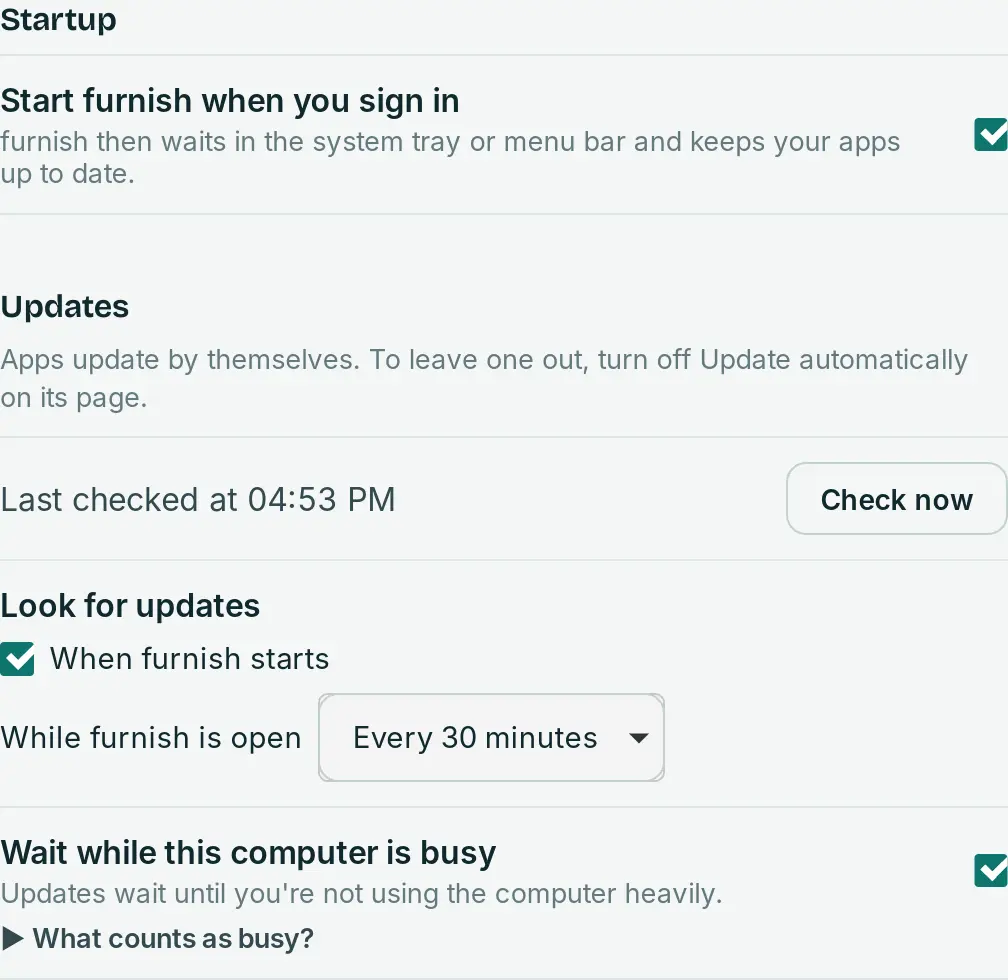
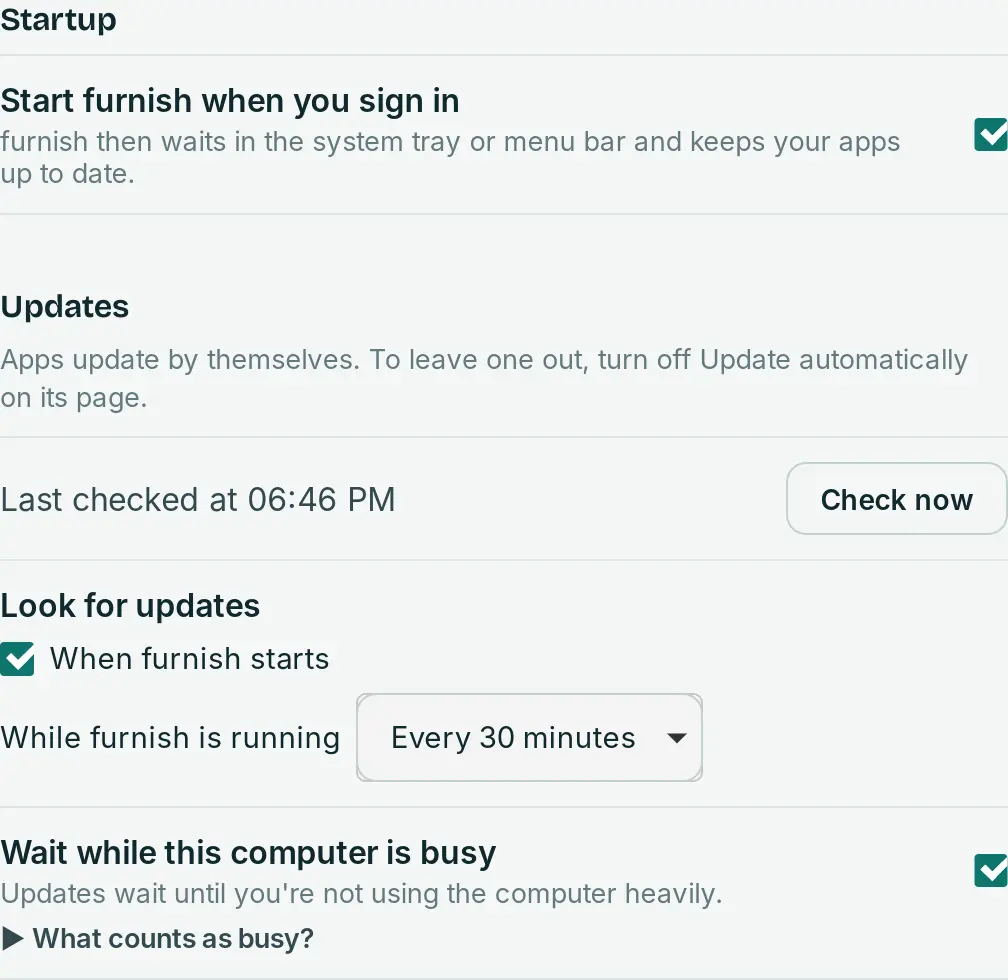
Settings follow-up: "while furnish is running", Never means no network, a real data folder in screenshots
- The interval row reads "While furnish is running" (it also checks from the tray).
- With checking set to Never and When furnish starts off, furnish doesn't ask the
  collections' servers on its own; the marks then change with Check now or Update.
  The rule is in schedule.ts with a unit test.
- Screenshots run the app with HOME=/home/alex, so About shows the data folder
  furnish uses normally; settings and reports-setting retaken.

Changed region(s): [[0.2153, 0.7041, 0.7073, 0.7959], [0.246, 0.4898, 0.3383, 0.5204], [0.6766, 0.7653, 0.7073, 0.7959]]

diff --git a/gui/src/lib/state.svelte.ts b/gui/src/lib/state.svelte.ts
@@ -3,6 +3,7 @@ import * as api from './api';
 import type { AppInfo, CollectionInfo, KitInfo, LogLine, Outcome, Settings, Status, Step } from './api';
 import { applyBranding, type Branding } from './brand';
 import { setLanguage, t, formatDate, lang } from './i18n.svelte';
+import { serverLooks } from './schedule';
 import { contentLanguage, lookup, matches, searchTexts, valueKey } from './content';
 
 export type View =
@@ -348,16 +349,16 @@ export function setAutoUpdate(key: string, on: boolean) {
 
 let timer: ReturnType<typeof setInterval> | undefined;
 let lookTimer: ReturnType<typeof setInterval> | undefined;
-/** Between update checks further apart than this, or with none: only ask the collections' servers
- *  whether they have something new (cheap, nothing is downloaded or applied). */
-const LOOK_MINUTES = 30;
+/** When to only ask the collections' servers whether they have something new (see schedule.ts). */
+const looks = () => serverLooks(store.settings?.updateIntervalMinutes ?? 0, store.settings?.updateOnLaunch ?? false);
 /** (Re)start the update interval from the current settings. */
 function schedule() {
   clearInterval(timer);
   clearInterval(lookTimer);
   const minutes = store.settings?.updateIntervalMinutes ?? 0;
   if (minutes > 0) timer = setInterval(checkForUpdates, minutes * 60_000);
-  if (minutes === 0 || minutes > LOOK_MINUTES) lookTimer = setInterval(lookForCollectionUpdates, LOOK_MINUTES * 60_000);
+  const every = looks().everyMinutes;
+  if (every) lookTimer = setInterval(lookForCollectionUpdates, every * 60_000);
 }
 
 /** Which collections have an update that isn't applied yet: asks their servers, then reloads the
@@ -411,7 +412,7 @@ export async function start() {
   if (store.settings?.updateOnLaunch) await checkForUpdates();
   else {
     updateApps();
-    lookForCollectionUpdates();
+    if (looks().atStart) lookForCollectionUpdates();
   }
 }
 

diff --git a/gui/src/lib/schedule.test.ts b/gui/src/lib/schedule.test.ts
@@ -1,0 +1,17 @@
+// node --test --experimental-strip-types src/lib/schedule.test.ts
+import { test } from 'node:test';
+import assert from 'node:assert/strict';
+import { serverLooks } from './schedule.ts';
+
+test('furnish looks for collection updates between checks, never with checking set to Never and off at start', () => {
+  // Regular checks every 30 minutes or more often apply updates anyway; at start only without updating at start.
+  assert.deepEqual(serverLooks(30, true), { atStart: false, everyMinutes: null });
+  assert.deepEqual(serverLooks(15, false), { atStart: true, everyMinutes: null });
+  // Checks further apart: look in between.
+  assert.deepEqual(serverLooks(240, true), { atStart: false, everyMinutes: 30 });
+  assert.deepEqual(serverLooks(1440, false), { atStart: true, everyMinutes: 30 });
+  // Never, but updating at start: look in between.
+  assert.deepEqual(serverLooks(0, true), { atStart: false, everyMinutes: 30 });
+  // Never and nothing at start: no network traffic at all.
+  assert.deepEqual(serverLooks(0, false), { atStart: false, everyMinutes: null });
+});

diff --git a/gui/src/lib/schedule.ts b/gui/src/lib/schedule.ts
@@ -1,0 +1,19 @@
+// When furnish asks the collections' servers whether they have something new, without applying
+// it (the "update available" marks; see check_collection_servers). Cheap: nothing is downloaded.
+
+/** Between update checks further apart than this: look this often. */
+export const LOOK_MINUTES = 30;
+
+/**
+ * At start (when updating at start is off) and every LOOK_MINUTES between update checks that are
+ * further apart. Checking set to Never with updating at start off means no network traffic at all:
+ * then the marks only change with Check now or Update.
+ */
+export function serverLooks(intervalMinutes: number, updateOnLaunch: boolean): { atStart: boolean; everyMinutes: number | null } {
+  const never = intervalMinutes === 0;
+  const quiet = never && !updateOnLaunch;
+  return {
+    atStart: !updateOnLaunch && !quiet,
+    everyMinutes: quiet || (!never && intervalMinutes <= LOOK_MINUTES) ? null : LOOK_MINUTES,
+  };
+}

diff --git a/gui/src/lib/locales/fr.ts b/gui/src/lib/locales/fr.ts
@@ -295,7 +295,7 @@ export const fr: Record<keyof typeof en, Entry> = {
   'settings.updatesText': 'Les apps se mettent à jour d’elles-mêmes. Pour en exclure une, désactivez « Mettre à jour automatiquement » sur sa page.',
   'settings.lookForUpdates': 'Rechercher des mises à jour',
   'settings.onStart': 'Au démarrage de {brand}',
-  'settings.whileOpen': 'Pendant que {brand} est ouvert',
+  'settings.whileRunning': 'Pendant que {brand} fonctionne',
   'settings.every15': 'Toutes les 15 minutes',
   'settings.every30': 'Toutes les 30 minutes',
   'settings.everyHour': 'Toutes les heures',

diff --git a/gui/src/lib/locales/de.ts b/gui/src/lib/locales/de.ts
@@ -293,7 +293,7 @@ export const de: Record<keyof typeof en, string | { one: string; other: string }
   'settings.updatesText': 'Apps werden von selbst aktualisiert. Um eine auszunehmen, schalten Sie auf ihrer Seite „Automatisch aktualisieren“ aus.',
   'settings.lookForUpdates': 'Nach Updates suchen',
   'settings.onStart': 'Beim Start von {brand}',
-  'settings.whileOpen': 'Während {brand} geöffnet ist',
+  'settings.whileRunning': 'Während {brand} läuft',
   'settings.every15': 'Alle 15 Minuten',
   'settings.every30': 'Alle 30 Minuten',
   'settings.everyHour': 'Jede Stunde',

diff --git a/gui/src/lib/locales/pl.ts b/gui/src/lib/locales/pl.ts
@@ -312,7 +312,7 @@ export const pl: Record<keyof typeof en, Entry> = {
   'settings.updatesText': 'Aplikacje aktualizują się same. Aby wykluczyć którąś, wyłącz „Aktualizuj automatycznie” na jej stronie.',
   'settings.lookForUpdates': 'Szukaj aktualizacji',
   'settings.onStart': 'Po uruchomieniu aplikacji {brand}',
-  'settings.whileOpen': 'Gdy aplikacja {brand} jest otwarta',
+  'settings.whileRunning': 'Gdy aplikacja {brand} działa',
   'settings.every15': 'Co 15 minut',
   'settings.every30': 'Co 30 minut',
   'settings.everyHour': 'Co godzinę',

diff --git a/gui/src/lib/locales/pt.ts b/gui/src/lib/locales/pt.ts
@@ -295,7 +295,7 @@ export const pt: Record<keyof typeof en, Entry> = {
   'settings.updatesText': 'As apps atualizam-se sozinhas. Para excluir uma, desative «Atualizar automaticamente» na página dela.',
   'settings.lookForUpdates': 'Procurar atualizações',
   'settings.onStart': 'Ao iniciar {brand}',
-  'settings.whileOpen': 'Enquanto {brand} estiver aberto',
+  'settings.whileRunning': 'Enquanto {brand} estiver em execução',
   'settings.every15': 'A cada 15 minutos',
   'settings.every30': 'A cada 30 minutos',
   'settings.everyHour': 'A cada hora',

diff --git a/gui/src/lib/locales/es.ts b/gui/src/lib/locales/es.ts
@@ -295,7 +295,7 @@ export const es: Record<keyof typeof en, Entry> = {
   'settings.updatesText': 'Las aplicaciones se actualizan solas. Para excluir una, desactiva «Actualizar automáticamente» en su página.',
   'settings.lookForUpdates': 'Buscar actualizaciones',
   'settings.onStart': 'Al iniciar {brand}',
-  'settings.whileOpen': 'Mientras {brand} está abierto',
+  'settings.whileRunning': 'Mientras {brand} está en marcha',
   'settings.every15': 'Cada 15 minutos',
   'settings.every30': 'Cada 30 minutos',
   'settings.everyHour': 'Cada hora',

diff --git a/gui/src/lib/locales/nl.ts b/gui/src/lib/locales/nl.ts
@@ -295,7 +295,7 @@ export const nl: Record<keyof typeof en, Entry> = {
   'settings.updatesText': 'Apps worden vanzelf bijgewerkt. Om er een uit te sluiten, schakelt u Automatisch bijwerken uit op de pagina van die app.',
   'settings.lookForUpdates': 'Zoeken naar updates',
   'settings.onStart': 'Wanneer {brand} start',
-  'settings.whileOpen': 'Terwijl {brand} geopend is',
+  'settings.whileRunning': 'Terwijl {brand} actief is',
   'settings.every15': 'Elke 15 minuten',
   'settings.every30': 'Elke 30 minuten',
   'settings.everyHour': 'Elk uur',

diff --git a/gui/src/lib/locales/it.ts b/gui/src/lib/locales/it.ts
@@ -295,7 +295,7 @@ export const it: Record<keyof typeof en, Entry> = {
   'settings.updatesText': 'Le app si aggiornano da sole. Per escluderne una, disattiva «Aggiorna automaticamente» nella sua pagina.',
   'settings.lookForUpdates': 'Cerca aggiornamenti',
   'settings.onStart': "All'avvio di {brand}",
-  'settings.whileOpen': 'Mentre {brand} è aperto',
+  'settings.whileRunning': 'Mentre {brand} è in esecuzione',
   'settings.every15': 'Ogni 15 minuti',
   'settings.every30': 'Ogni 30 minuti',
   'settings.everyHour': 'Ogni ora',

diff --git a/gui/src/lib/locales/en.ts b/gui/src/lib/locales/en.ts
@@ -292,7 +292,7 @@ export const en = {
   'settings.updatesText': 'Apps update by themselves. To leave one out, turn off Update automatically on its page.',
   'settings.lookForUpdates': 'Look for updates',
   'settings.onStart': 'When {brand} starts',
-  'settings.whileOpen': 'While {brand} is open',
+  'settings.whileRunning': 'While {brand} is running',
   'settings.every15': 'Every 15 minutes',
   'settings.every30': 'Every 30 minutes',
   'settings.everyHour': 'Every hour',

diff --git a/gui/src/lib/Settings.svelte b/gui/src/lib/Settings.svelte
@@ -122,7 +122,7 @@
               {@render locked('updateOnLaunch')}
             </label>
             <label class="inline interval">
-              {t('settings.whileOpen', { brand })}
+              {t('settings.whileRunning', { brand })}
               <select
                 id="interval"
                 value={store.settings.updateIntervalMinutes}
